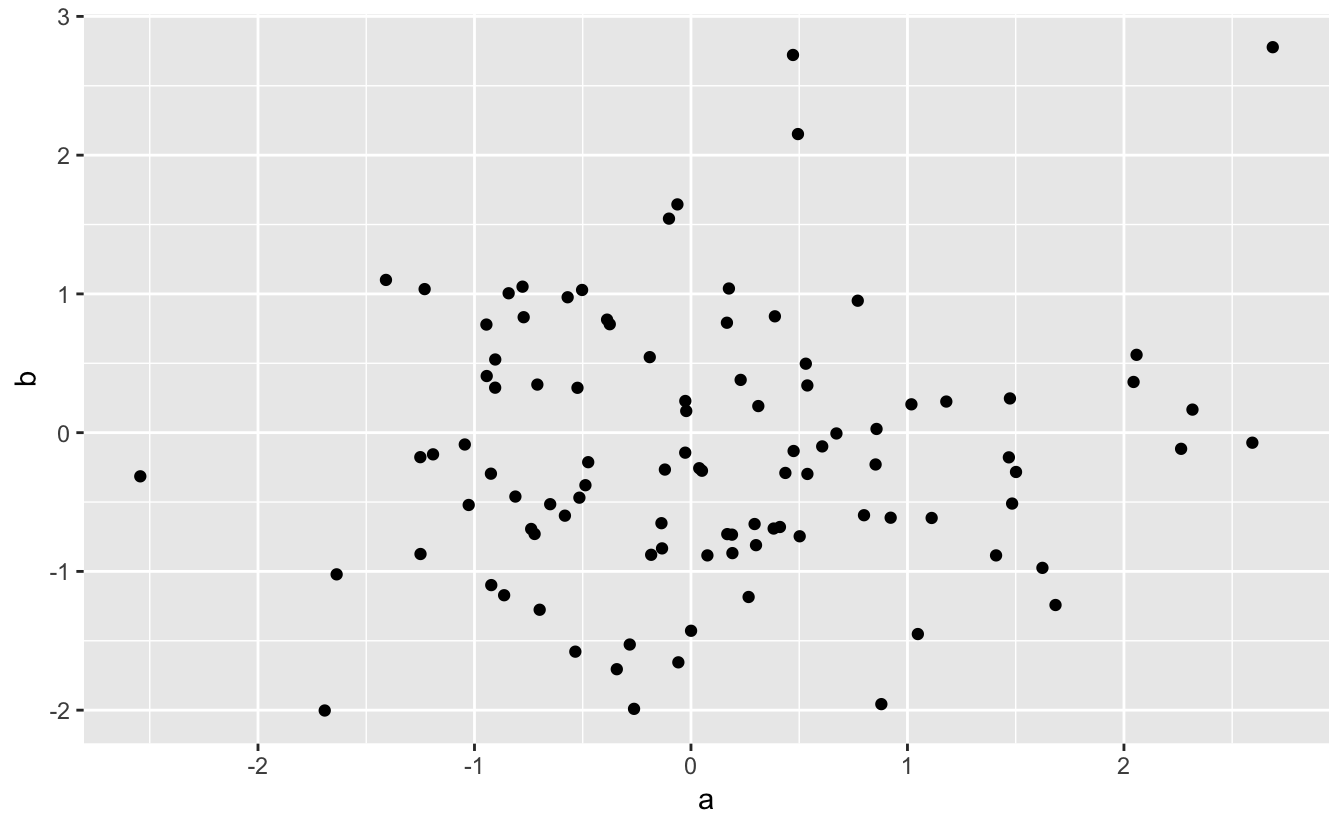
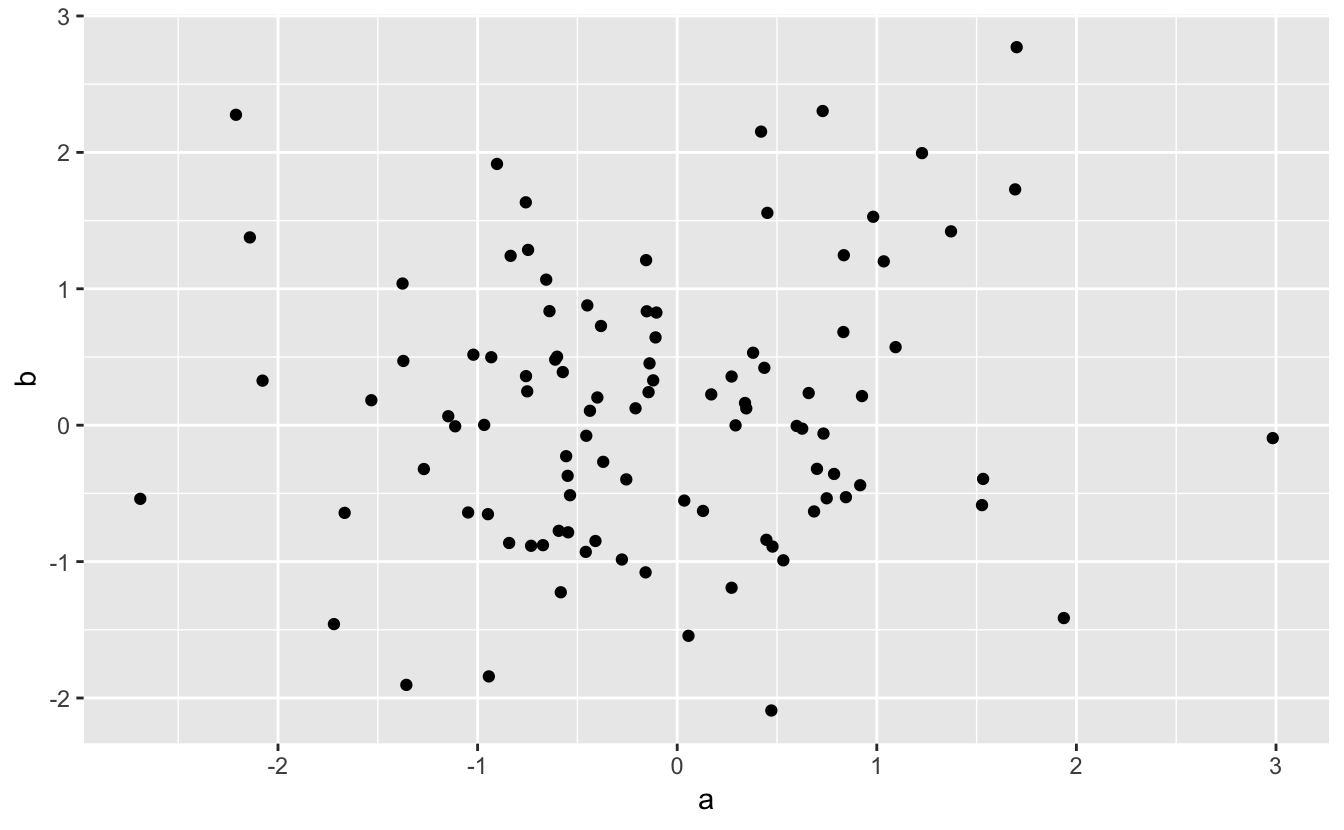
Removed unnecessary packages and cruft from setup chunk

diff --git a/docs/intro.html b/docs/intro.html
@@ -11,10 +11,10 @@
 
   <meta property="og:title" content="Travaux Pratiques de Biométrie 2" />
   <meta property="og:type" content="book" />
-  
+  <meta property="og:url" content="https://besibo.github.io/Biometrie2/" />
   
   <meta property="og:description" content="Ce livre est un document permettant de prendre en main les logiciels R et RStudio afin de réaliser des représentations graphiques et des statistiques descriptives simples dans le cadre des travaux pratiques de Biométrie 2." />
-  
+  <meta name="github-repo" content="besibo/Biometrie2" />
 
   <meta name="twitter:card" content="summary" />
   <meta name="twitter:title" content="Travaux Pratiques de Biométrie 2" />
@@ -53,38 +53,41 @@
 div.sourceCode { overflow-x: auto; }
 table.sourceCode, tr.sourceCode, td.lineNumbers, td.sourceCode {
   margin: 0; padding: 0; vertical-align: baseline; border: none; }
-table.sourceCode { width: 100%; line-height: 100%; }
-td.lineNumbers { text-align: right; padding-right: 4px; padding-left: 4px; color: #aaaaaa; border-right: 1px solid #aaaaaa; }
+table.sourceCode { width: 100%; line-height: 100%; background-color: #ffffff; color: #1f1c1b; }
+td.lineNumbers { text-align: right; padding-right: 4px; padding-left: 4px; background-color: #ffffff; color: #a0a0a0; border-right: 1px solid #a0a0a0; }
 td.sourceCode { padding-left: 5px; }
-code > span.kw { color: #007020; font-weight: bold; } /* Keyword */
-code > span.dt { color: #902000; } /* DataType */
-code > span.dv { color: #40a070; } /* DecVal */
-code > span.bn { color: #40a070; } /* BaseN */
-code > span.fl { color: #40a070; } /* Float */
-code > span.ch { color: #4070a0; } /* Char */
-code > span.st { color: #4070a0; } /* String */
-code > span.co { color: #60a0b0; font-style: italic; } /* Comment */
-code > span.ot { color: #007020; } /* Other */
-code > span.al { color: #ff0000; font-weight: bold; } /* Alert */
-code > span.fu { color: #06287e; } /* Function */
-code > span.er { color: #ff0000; font-weight: bold; } /* Error */
-code > span.wa { color: #60a0b0; font-weight: bold; font-style: italic; } /* Warning */
-code > span.cn { color: #880000; } /* Constant */
-code > span.sc { color: #4070a0; } /* SpecialChar */
-code > span.vs { color: #4070a0; } /* VerbatimString */
-code > span.ss { color: #bb6688; } /* SpecialString */
-code > span.im { } /* Import */
-code > span.va { color: #19177c; } /* Variable */
-code > span.cf { color: #007020; font-weight: bold; } /* ControlFlow */
-code > span.op { color: #666666; } /* Operator */
-code > span.bu { } /* BuiltIn */
-code > span.ex { } /* Extension */
-code > span.pp { color: #bc7a00; } /* Preprocessor */
-code > span.at { color: #7d9029; } /* Attribute */
-code > span.do { color: #ba2121; font-style: italic; } /* Documentation */
-code > span.an { color: #60a0b0; font-weight: bold; font-style: italic; } /* Annotation */
-code > span.cv { color: #60a0b0; font-weight: bold; font-style: italic; } /* CommentVar */
-code > span.in { color: #60a0b0; font-weight: bold; font-style: italic; } /* Information */
+pre, code { color: #1f1c1b; background-color: #ffffff; }
+code > span.kw { color: #1f1c1b; font-weight: bold; } /* Keyword */
+code > span.dt { color: #0057ae; } /* DataType */
+code > span.dv { color: #b08000; } /* DecVal */
+code > span.bn { color: #b08000; } /* BaseN */
+code > span.fl { color: #b08000; } /* Float */
+code > span.cn { color: #aa5500; } /* Constant */
+code > span.ch { color: #924c9d; } /* Char */
+code > span.sc { color: #3daee9; } /* SpecialChar */
+code > span.st { color: #bf0303; } /* String */
+code > span.vs { color: #bf0303; } /* VerbatimString */
+code > span.ss { color: #ff5500; } /* SpecialString */
+code > span.im { color: #ff5500; } /* Import */
+code > span.co { color: #898887; } /* Comment */
+code > span.do { color: #607880; } /* Documentation */
+code > span.an { color: #ca60ca; } /* Annotation */
+code > span.cv { color: #0095ff; } /* CommentVar */
+code > span.ot { color: #006e28; } /* Other */
+code > span.fu { color: #644a9b; } /* Function */
+code > span.va { color: #0057ae; } /* Variable */
+code > span.cf { color: #1f1c1b; font-weight: bold; } /* ControlFlow */
+code > span.op { color: #1f1c1b; } /* Operator */
+code > span.bu { color: #644a9b; font-weight: bold; } /* BuiltIn */
+code > span.ex { color: #0095ff; font-weight: bold; } /* Extension */
+code > span.pp { color: #006e28; } /* Preprocessor */
+code > span.at { color: #0057ae; } /* Attribute */
+code > span.re { color: #0057ae; } /* RegionMarker */
+code > span.in { color: #b08000; } /* Information */
+code > span.wa { color: #bf0303; } /* Warning */
+code > span.al { color: #bf0303; font-weight: bold; } /* Alert */
+code > span.er { color: #bf0303; text-decoration: underline; } /* Error */
+code > span. { color: #1f1c1b; } /* Normal */
 </style>
 
 <link rel="stylesheet" href="style.css" type="text/css" />
@@ -108,7 +111,6 @@ code > span.in { color: #60a0b0; font-weight: bold; font-style: italic; } /* Inf
 <li class="chapter" data-level="" data-path="references.html"><a href="references.html"><i class="fa fa-check"></i>Références</a></li>
 <li class="divider"></li>
 <li><a href="https://github.com/rstudio/bookdown" target="blank">Publié avec bookdown</a></li>
-
 </ul>
 
       </nav>
@@ -130,8 +132,7 @@ code > span.in { color: #60a0b0; font-weight: bold; font-style: italic; } /* Inf
 <h1><span class="header-section-number">Chapitre 2</span> Introduction</h1>
 <p>You can label chapter and section titles using <code>{#label}</code> after them, e.g., we can reference Chapter <a href="intro.html#intro">2</a>. If you do not manually label them, there will be automatic labels anyway, e.g., Chapter <a href="#methods"><strong>??</strong></a>.</p>
 <p>Figures and tables with captions will be placed in <code>figure</code> and <code>table</code> environments, respectively.</p>
-<div class="sourceCode"><pre class="sourceCode r"><code class="sourceCode r"><span class="kw">library</span>(tidyverse)
-bla &lt;-<span class="st"> </span><span class="kw">tibble</span>(<span class="dt">a =</span> <span class="kw">rnorm</span>(<span class="dv">100</span>), <span class="dt">b =</span> <span class="kw">rnorm</span>(<span class="dv">100</span>))
+<div class="sourceCode"><pre class="sourceCode r"><code class="sourceCode r">bla &lt;-<span class="st"> </span><span class="kw">tibble</span>(<span class="dt">a =</span> <span class="kw">rnorm</span>(<span class="dv">100</span>), <span class="dt">b =</span> <span class="kw">rnorm</span>(<span class="dv">100</span>))
 bla <span class="op">%&gt;%</span><span class="st"> </span><span class="kw">ggplot</span>(<span class="kw">aes</span>(a, b)) <span class="op">+</span><span class="st"> </span><span class="kw">geom_point</span>()</code></pre></div>
 <div class="figure" style="text-align: center"><span id="fig:nice-fig"></span>
 <img src="figure/nice-fig-1.png" alt="Here is a nice figure!" width="70%" />
@@ -331,14 +332,14 @@ gitbook.require(["gitbook"], function(gitbook) {
 gitbook.start({
 "sharing": {
 "github": true,
-"facebook": true,
-"twitter": true,
+"facebook": false,
+"twitter": false,
 "google": false,
 "linkedin": false,
 "weibo": false,
 "instapper": false,
 "vk": false,
-"all": ["facebook", "google", "twitter", "linkedin", "weibo", "instapaper"]
+"all": false
 },
 "fontsettings": {
 "theme": "white",
@@ -349,8 +350,7 @@ gitbook.start({
 "download": null,
 "toc": {
 "collapse": "subsection"
-},
-"search": true
+}
 });
 });
 </script>

diff --git a/docs/index.html b/docs/index.html
@@ -11,10 +11,10 @@
 
   <meta property="og:title" content="Travaux Pratiques de Biométrie 2" />
   <meta property="og:type" content="book" />
-  
+  <meta property="og:url" content="https://besibo.github.io/Biometrie2/" />
   
   <meta property="og:description" content="Ce livre est un document permettant de prendre en main les logiciels R et RStudio afin de réaliser des représentations graphiques et des statistiques descriptives simples dans le cadre des travaux pratiques de Biométrie 2." />
-  
+  <meta name="github-repo" content="besibo/Biometrie2" />
 
   <meta name="twitter:card" content="summary" />
   <meta name="twitter:title" content="Travaux Pratiques de Biométrie 2" />
@@ -53,38 +53,41 @@
 div.sourceCode { overflow-x: auto; }
 table.sourceCode, tr.sourceCode, td.lineNumbers, td.sourceCode {
   margin: 0; padding: 0; vertical-align: baseline; border: none; }
-table.sourceCode { width: 100%; line-height: 100%; }
-td.lineNumbers { text-align: right; padding-right: 4px; padding-left: 4px; color: #aaaaaa; border-right: 1px solid #aaaaaa; }
+table.sourceCode { width: 100%; line-height: 100%; background-color: #ffffff; color: #1f1c1b; }
+td.lineNumbers { text-align: right; padding-right: 4px; padding-left: 4px; background-color: #ffffff; color: #a0a0a0; border-right: 1px solid #a0a0a0; }
 td.sourceCode { padding-left: 5px; }
-code > span.kw { color: #007020; font-weight: bold; } /* Keyword */
-code > span.dt { color: #902000; } /* DataType */
-code > span.dv { color: #40a070; } /* DecVal */
-code > span.bn { color: #40a070; } /* BaseN */
-code > span.fl { color: #40a070; } /* Float */
-code > span.ch { color: #4070a0; } /* Char */
-code > span.st { color: #4070a0; } /* String */
-code > span.co { color: #60a0b0; font-style: italic; } /* Comment */
-code > span.ot { color: #007020; } /* Other */
-code > span.al { color: #ff0000; font-weight: bold; } /* Alert */
-code > span.fu { color: #06287e; } /* Function */
-code > span.er { color: #ff0000; font-weight: bold; } /* Error */
-code > span.wa { color: #60a0b0; font-weight: bold; font-style: italic; } /* Warning */
-code > span.cn { color: #880000; } /* Constant */
-code > span.sc { color: #4070a0; } /* SpecialChar */
-code > span.vs { color: #4070a0; } /* VerbatimString */
-code > span.ss { color: #bb6688; } /* SpecialString */
-code > span.im { } /* Import */
-code > span.va { color: #19177c; } /* Variable */
-code > span.cf { color: #007020; font-weight: bold; } /* ControlFlow */
-code > span.op { color: #666666; } /* Operator */
-code > span.bu { } /* BuiltIn */
-code > span.ex { } /* Extension */
-code > span.pp { color: #bc7a00; } /* Preprocessor */
-code > span.at { color: #7d9029; } /* Attribute */
-code > span.do { color: #ba2121; font-style: italic; } /* Documentation */
-code > span.an { color: #60a0b0; font-weight: bold; font-style: italic; } /* Annotation */
-code > span.cv { color: #60a0b0; font-weight: bold; font-style: italic; } /* CommentVar */
-code > span.in { color: #60a0b0; font-weight: bold; font-style: italic; } /* Information */
+pre, code { color: #1f1c1b; background-color: #ffffff; }
+code > span.kw { color: #1f1c1b; font-weight: bold; } /* Keyword */
+code > span.dt { color: #0057ae; } /* DataType */
+code > span.dv { color: #b08000; } /* DecVal */
+code > span.bn { color: #b08000; } /* BaseN */
+code > span.fl { color: #b08000; } /* Float */
+code > span.cn { color: #aa5500; } /* Constant */
+code > span.ch { color: #924c9d; } /* Char */
+code > span.sc { color: #3daee9; } /* SpecialChar */
+code > span.st { color: #bf0303; } /* String */
+code > span.vs { color: #bf0303; } /* VerbatimString */
+code > span.ss { color: #ff5500; } /* SpecialString */
+code > span.im { color: #ff5500; } /* Import */
+code > span.co { color: #898887; } /* Comment */
+code > span.do { color: #607880; } /* Documentation */
+code > span.an { color: #ca60ca; } /* Annotation */
+code > span.cv { color: #0095ff; } /* CommentVar */
+code > span.ot { color: #006e28; } /* Other */
+code > span.fu { color: #644a9b; } /* Function */
+code > span.va { color: #0057ae; } /* Variable */
+code > span.cf { color: #1f1c1b; font-weight: bold; } /* ControlFlow */
+code > span.op { color: #1f1c1b; } /* Operator */
+code > span.bu { color: #644a9b; font-weight: bold; } /* BuiltIn */
+code > span.ex { color: #0095ff; font-weight: bold; } /* Extension */
+code > span.pp { color: #006e28; } /* Preprocessor */
+code > span.at { color: #0057ae; } /* Attribute */
+code > span.re { color: #0057ae; } /* RegionMarker */
+code > span.in { color: #b08000; } /* Information */
+code > span.wa { color: #bf0303; } /* Warning */
+code > span.al { color: #bf0303; font-weight: bold; } /* Alert */
+code > span.er { color: #bf0303; text-decoration: underline; } /* Error */
+code > span. { color: #1f1c1b; } /* Normal */
 </style>
 
 <link rel="stylesheet" href="style.css" type="text/css" />
@@ -100,7 +103,7 @@ code > span.in { color: #60a0b0; font-weight: bold; font-style: italic; } /* Inf
       <nav role="navigation">
 
 <ul class="summary">
-<li><a href="./">Travaux pratiques de Biométrie 2</a></li>
+<li><a href="./">TP de Biométrie 2</a></li>
 
 <li class="divider"></li>
 <li class="chapter" data-level="1" data-path="index.html"><a href="index.html"><i class="fa fa-check"></i><b>1</b> Préambule</a></li>
@@ -108,7 +111,6 @@ code > span.in { color: #60a0b0; font-weight: bold; font-style: italic; } /* Inf
 <li class="chapter" data-level="" data-path="references.html"><a href="references.html"><i class="fa fa-check"></i>Références</a></li>
 <li class="divider"></li>
 <li><a href="https://github.com/rstudio/bookdown" target="blank">Publié avec bookdown</a></li>
-
 </ul>
 
       </nav>
@@ -175,8 +177,7 @@ gitbook.start({
 "download": null,
 "toc": {
 "collapse": "subsection"
-},
-"search": true
+}
 });
 });
 </script>

diff --git a/docs/references.html b/docs/references.html
@@ -11,10 +11,10 @@
 
   <meta property="og:title" content="Travaux Pratiques de Biométrie 2" />
   <meta property="og:type" content="book" />
-  
+  <meta property="og:url" content="https://besibo.github.io/Biometrie2/" />
   
   <meta property="og:description" content="Ce livre est un document permettant de prendre en main les logiciels R et RStudio afin de réaliser des représentations graphiques et des statistiques descriptives simples dans le cadre des travaux pratiques de Biométrie 2." />
-  
+  <meta name="github-repo" content="besibo/Biometrie2" />
 
   <meta name="twitter:card" content="summary" />
   <meta name="twitter:title" content="Travaux Pratiques de Biométrie 2" />
@@ -53,38 +53,41 @@
 div.sourceCode { overflow-x: auto; }
 table.sourceCode, tr.sourceCode, td.lineNumbers, td.sourceCode {
   margin: 0; padding: 0; vertical-align: baseline; border: none; }
-table.sourceCode { width: 100%; line-height: 100%; }
-td.lineNumbers { text-align: right; padding-right: 4px; padding-left: 4px; color: #aaaaaa; border-right: 1px solid #aaaaaa; }
+table.sourceCode { width: 100%; line-height: 100%; background-color: #ffffff; color: #1f1c1b; }
+td.lineNumbers { text-align: right; padding-right: 4px; padding-left: 4px; background-color: #ffffff; color: #a0a0a0; border-right: 1px solid #a0a0a0; }
 td.sourceCode { padding-left: 5px; }
-code > span.kw { color: #007020; font-weight: bold; } /* Keyword */
-code > span.dt { color: #902000; } /* DataType */
-code > span.dv { color: #40a070; } /* DecVal */
-code > span.bn { color: #40a070; } /* BaseN */
-code > span.fl { color: #40a070; } /* Float */
-code > span.ch { color: #4070a0; } /* Char */
-code > span.st { color: #4070a0; } /* String */
-code > span.co { color: #60a0b0; font-style: italic; } /* Comment */
-code > span.ot { color: #007020; } /* Other */
-code > span.al { color: #ff0000; font-weight: bold; } /* Alert */
-code > span.fu { color: #06287e; } /* Function */
-code > span.er { color: #ff0000; font-weight: bold; } /* Error */
-code > span.wa { color: #60a0b0; font-weight: bold; font-style: italic; } /* Warning */
-code > span.cn { color: #880000; } /* Constant */
-code > span.sc { color: #4070a0; } /* SpecialChar */
-code > span.vs { color: #4070a0; } /* VerbatimString */
-code > span.ss { color: #bb6688; } /* SpecialString */
-code > span.im { } /* Import */
-code > span.va { color: #19177c; } /* Variable */
-code > span.cf { color: #007020; font-weight: bold; } /* ControlFlow */
-code > span.op { color: #666666; } /* Operator */
-code > span.bu { } /* BuiltIn */
-code > span.ex { } /* Extension */
-code > span.pp { color: #bc7a00; } /* Preprocessor */
-code > span.at { color: #7d9029; } /* Attribute */
-code > span.do { color: #ba2121; font-style: italic; } /* Documentation */
-code > span.an { color: #60a0b0; font-weight: bold; font-style: italic; } /* Annotation */
-code > span.cv { color: #60a0b0; font-weight: bold; font-style: italic; } /* CommentVar */
-code > span.in { color: #60a0b0; font-weight: bold; font-style: italic; } /* Information */
+pre, code { color: #1f1c1b; background-color: #ffffff; }
+code > span.kw { color: #1f1c1b; font-weight: bold; } /* Keyword */
+code > span.dt { color: #0057ae; } /* DataType */
+code > span.dv { color: #b08000; } /* DecVal */
+code > span.bn { color: #b08000; } /* BaseN */
+code > span.fl { color: #b08000; } /* Float */
+code > span.cn { color: #aa5500; } /* Constant */
+code > span.ch { color: #924c9d; } /* Char */
+code > span.sc { color: #3daee9; } /* SpecialChar */
+code > span.st { color: #bf0303; } /* String */
+code > span.vs { color: #bf0303; } /* VerbatimString */
+code > span.ss { color: #ff5500; } /* SpecialString */
+code > span.im { color: #ff5500; } /* Import */
+code > span.co { color: #898887; } /* Comment */
+code > span.do { color: #607880; } /* Documentation */
+code > span.an { color: #ca60ca; } /* Annotation */
+code > span.cv { color: #0095ff; } /* CommentVar */
+code > span.ot { color: #006e28; } /* Other */
+code > span.fu { color: #644a9b; } /* Function */
+code > span.va { color: #0057ae; } /* Variable */
+code > span.cf { color: #1f1c1b; font-weight: bold; } /* ControlFlow */
+code > span.op { color: #1f1c1b; } /* Operator */
+code > span.bu { color: #644a9b; font-weight: bold; } /* BuiltIn */
+code > span.ex { color: #0095ff; font-weight: bold; } /* Extension */
+code > span.pp { color: #006e28; } /* Preprocessor */
+code > span.at { color: #0057ae; } /* Attribute */
+code > span.re { color: #0057ae; } /* RegionMarker */
+code > span.in { color: #b08000; } /* Information */
+code > span.wa { color: #bf0303; } /* Warning */
+code > span.al { color: #bf0303; font-weight: bold; } /* Alert */
+code > span.er { color: #bf0303; text-decoration: underline; } /* Error */
+code > span. { color: #1f1c1b; } /* Normal */
 </style>
 
 <link rel="stylesheet" href="style.css" type="text/css" />
@@ -108,7 +111,6 @@ code > span.in { color: #60a0b0; font-weight: bold; font-style: italic; } /* Inf
 <li class="chapter" data-level="" data-path="references.html"><a href="references.html"><i class="fa fa-check"></i>Références</a></li>
 <li class="divider"></li>
 <li><a href="https://github.com/rstudio/bookdown" target="blank">Publié avec bookdown</a></li>
-
 </ul>
 
       </nav>
@@ -159,14 +161,14 @@ gitbook.require(["gitbook"], function(gitbook) {
 gitbook.start({
 "sharing": {
 "github": true,
-"facebook": true,
-"twitter": true,
+"facebook": false,
+"twitter": false,
 "google": false,
 "linkedin": false,
 "weibo": false,
 "instapper": false,
 "vk": false,
-"all": ["facebook", "google", "twitter", "linkedin", "weibo", "instapaper"]
+"all": false
 },
 "fontsettings": {
 "theme": "white",
@@ -177,8 +179,7 @@ gitbook.start({
 "download": null,
 "toc": {
 "collapse": "subsection"
-},
-"search": true
+}
 });
 });
 </script>

diff --git a/README.md b/README.md
@@ -2,4 +2,6 @@
 
 Ce dépôt contient le document permettant de prendre en main les logiciels R et RStudio afin de réaliser des représentations graphiques et des statistiques descriptives simples dans le cadre des travaux pratiques de Biométrie 2 (Licence 3, Semestre 5).
 
+Le livre est consultable à cette adresse : https://besibo.github.io/Biometrie2/
+
 Ce livre est évrit en R Markdown et repose sur le package **bookdown** (https://github.com/rstudio/bookdown). Merci de consulter la page "Get Started" à https://bookdown.org/ pour apprendre comment compiler ce livre.
